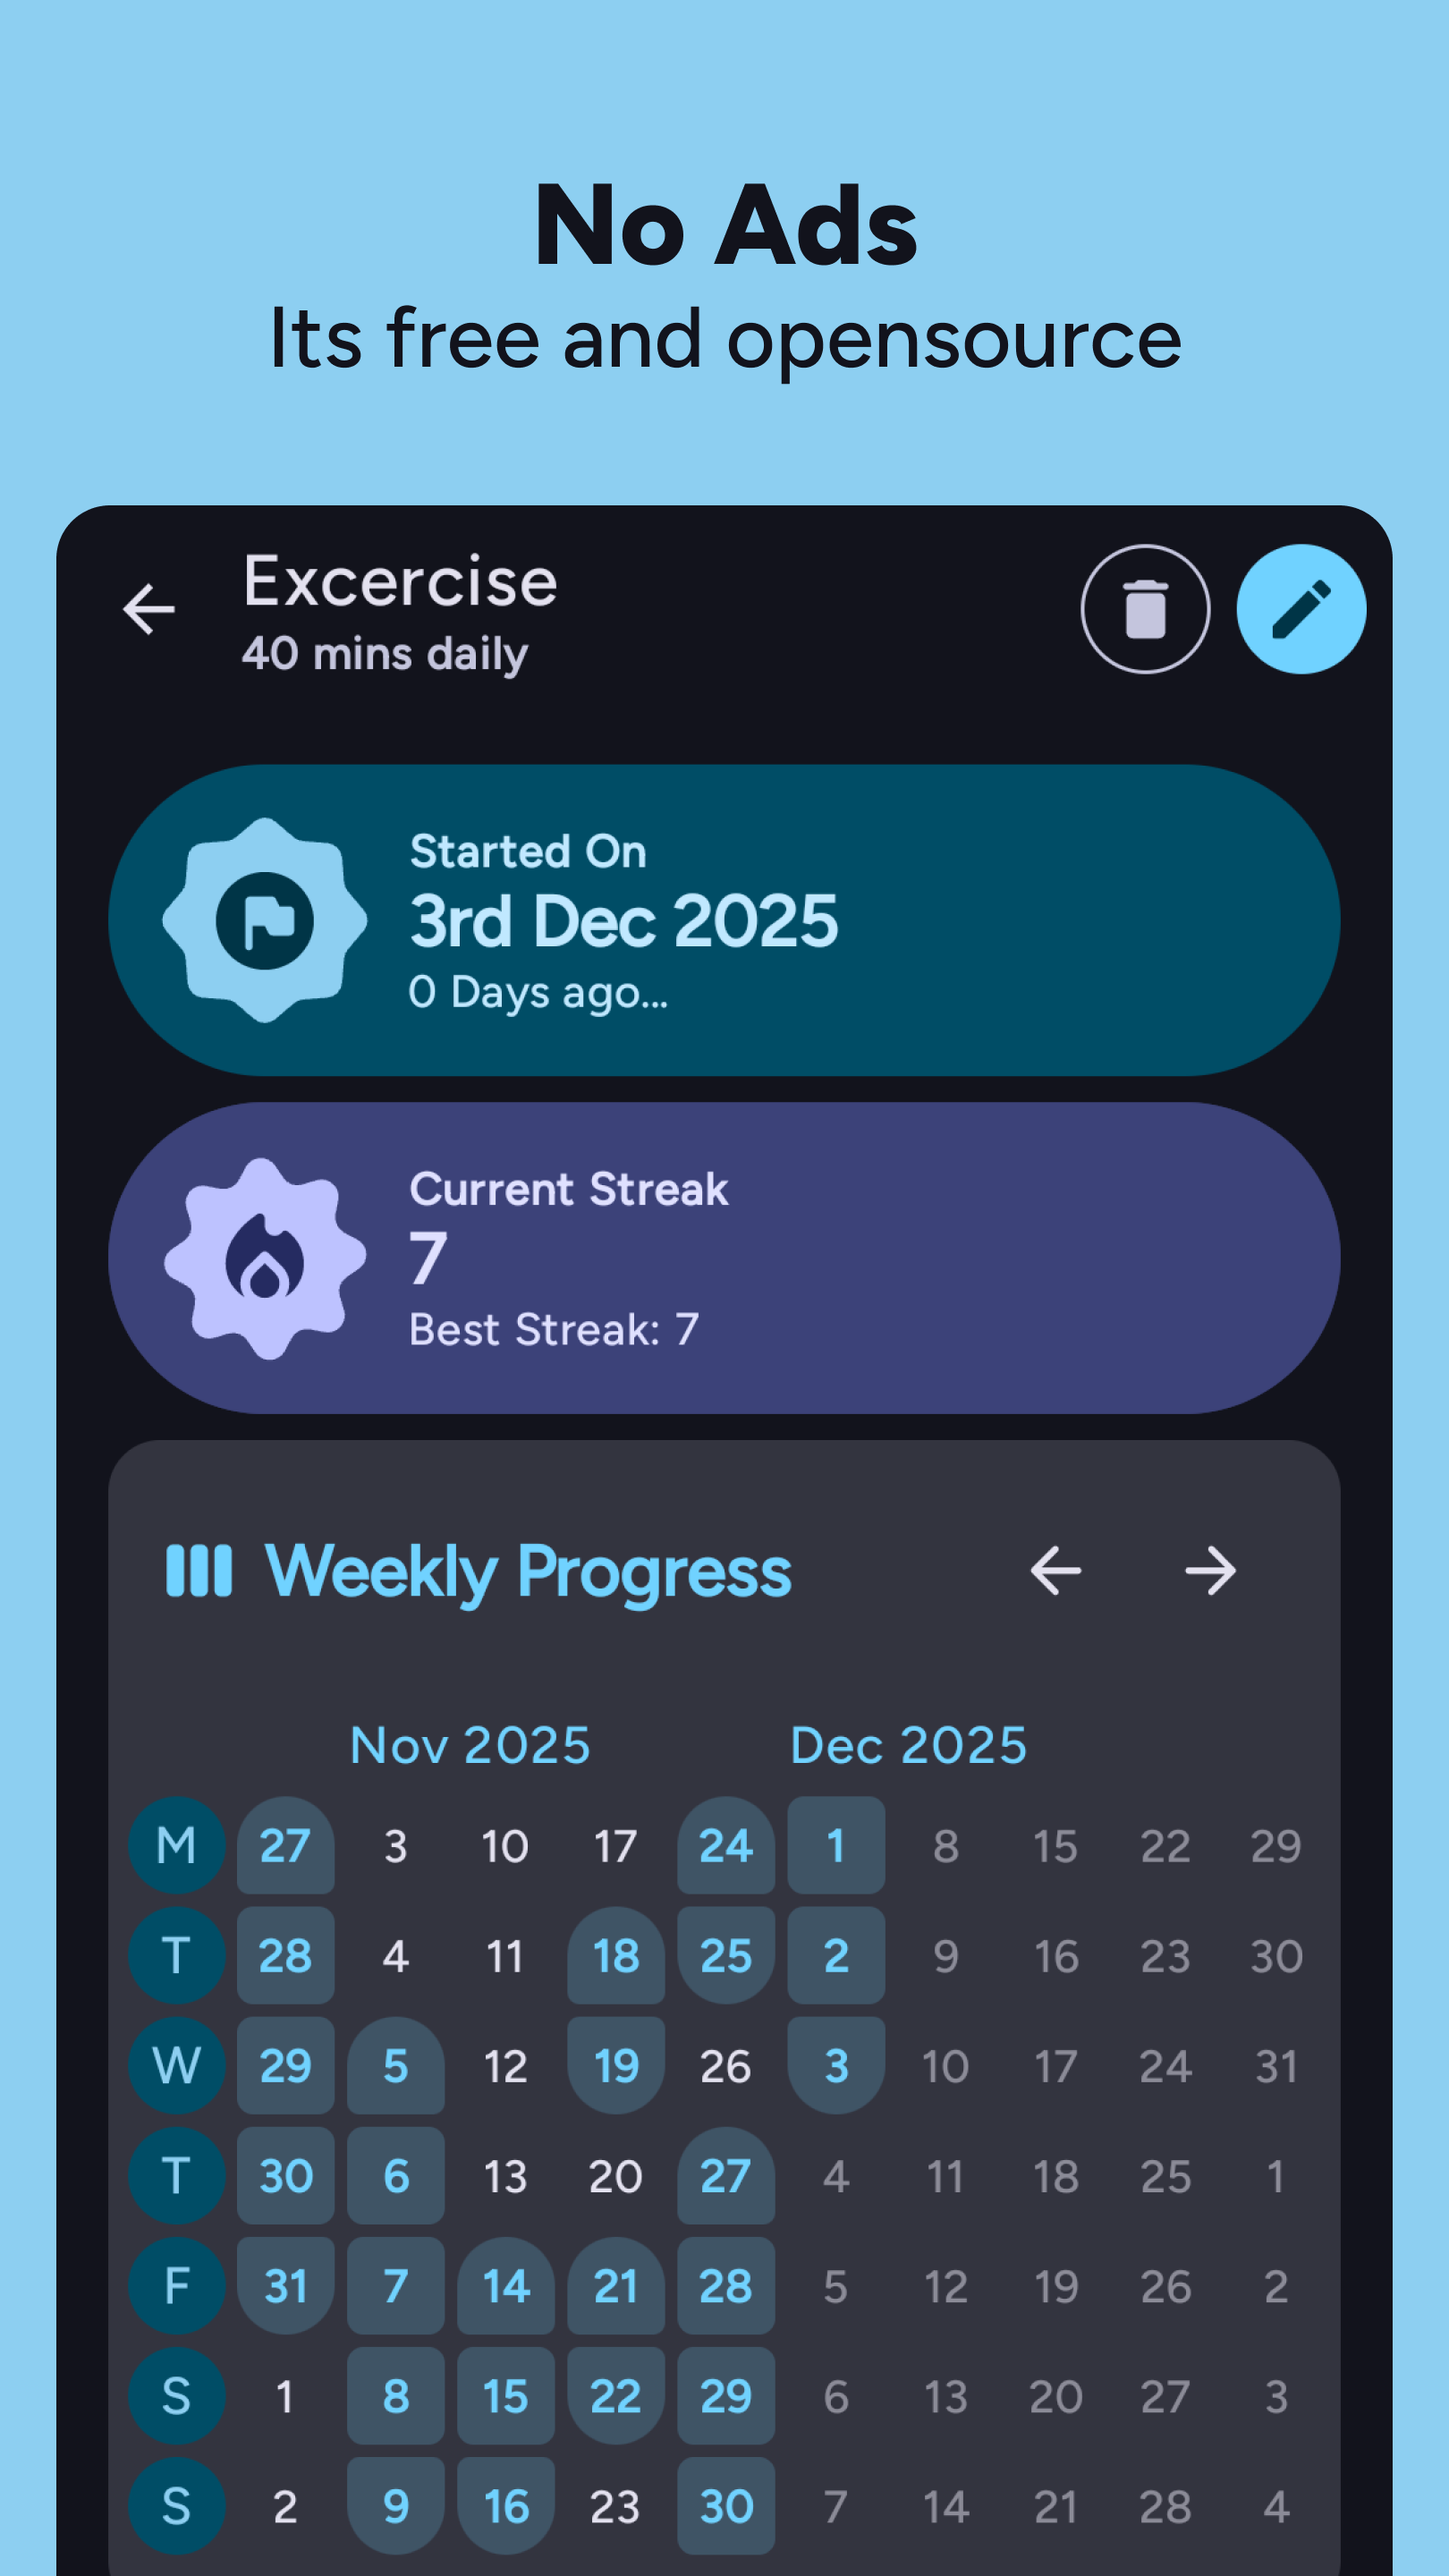
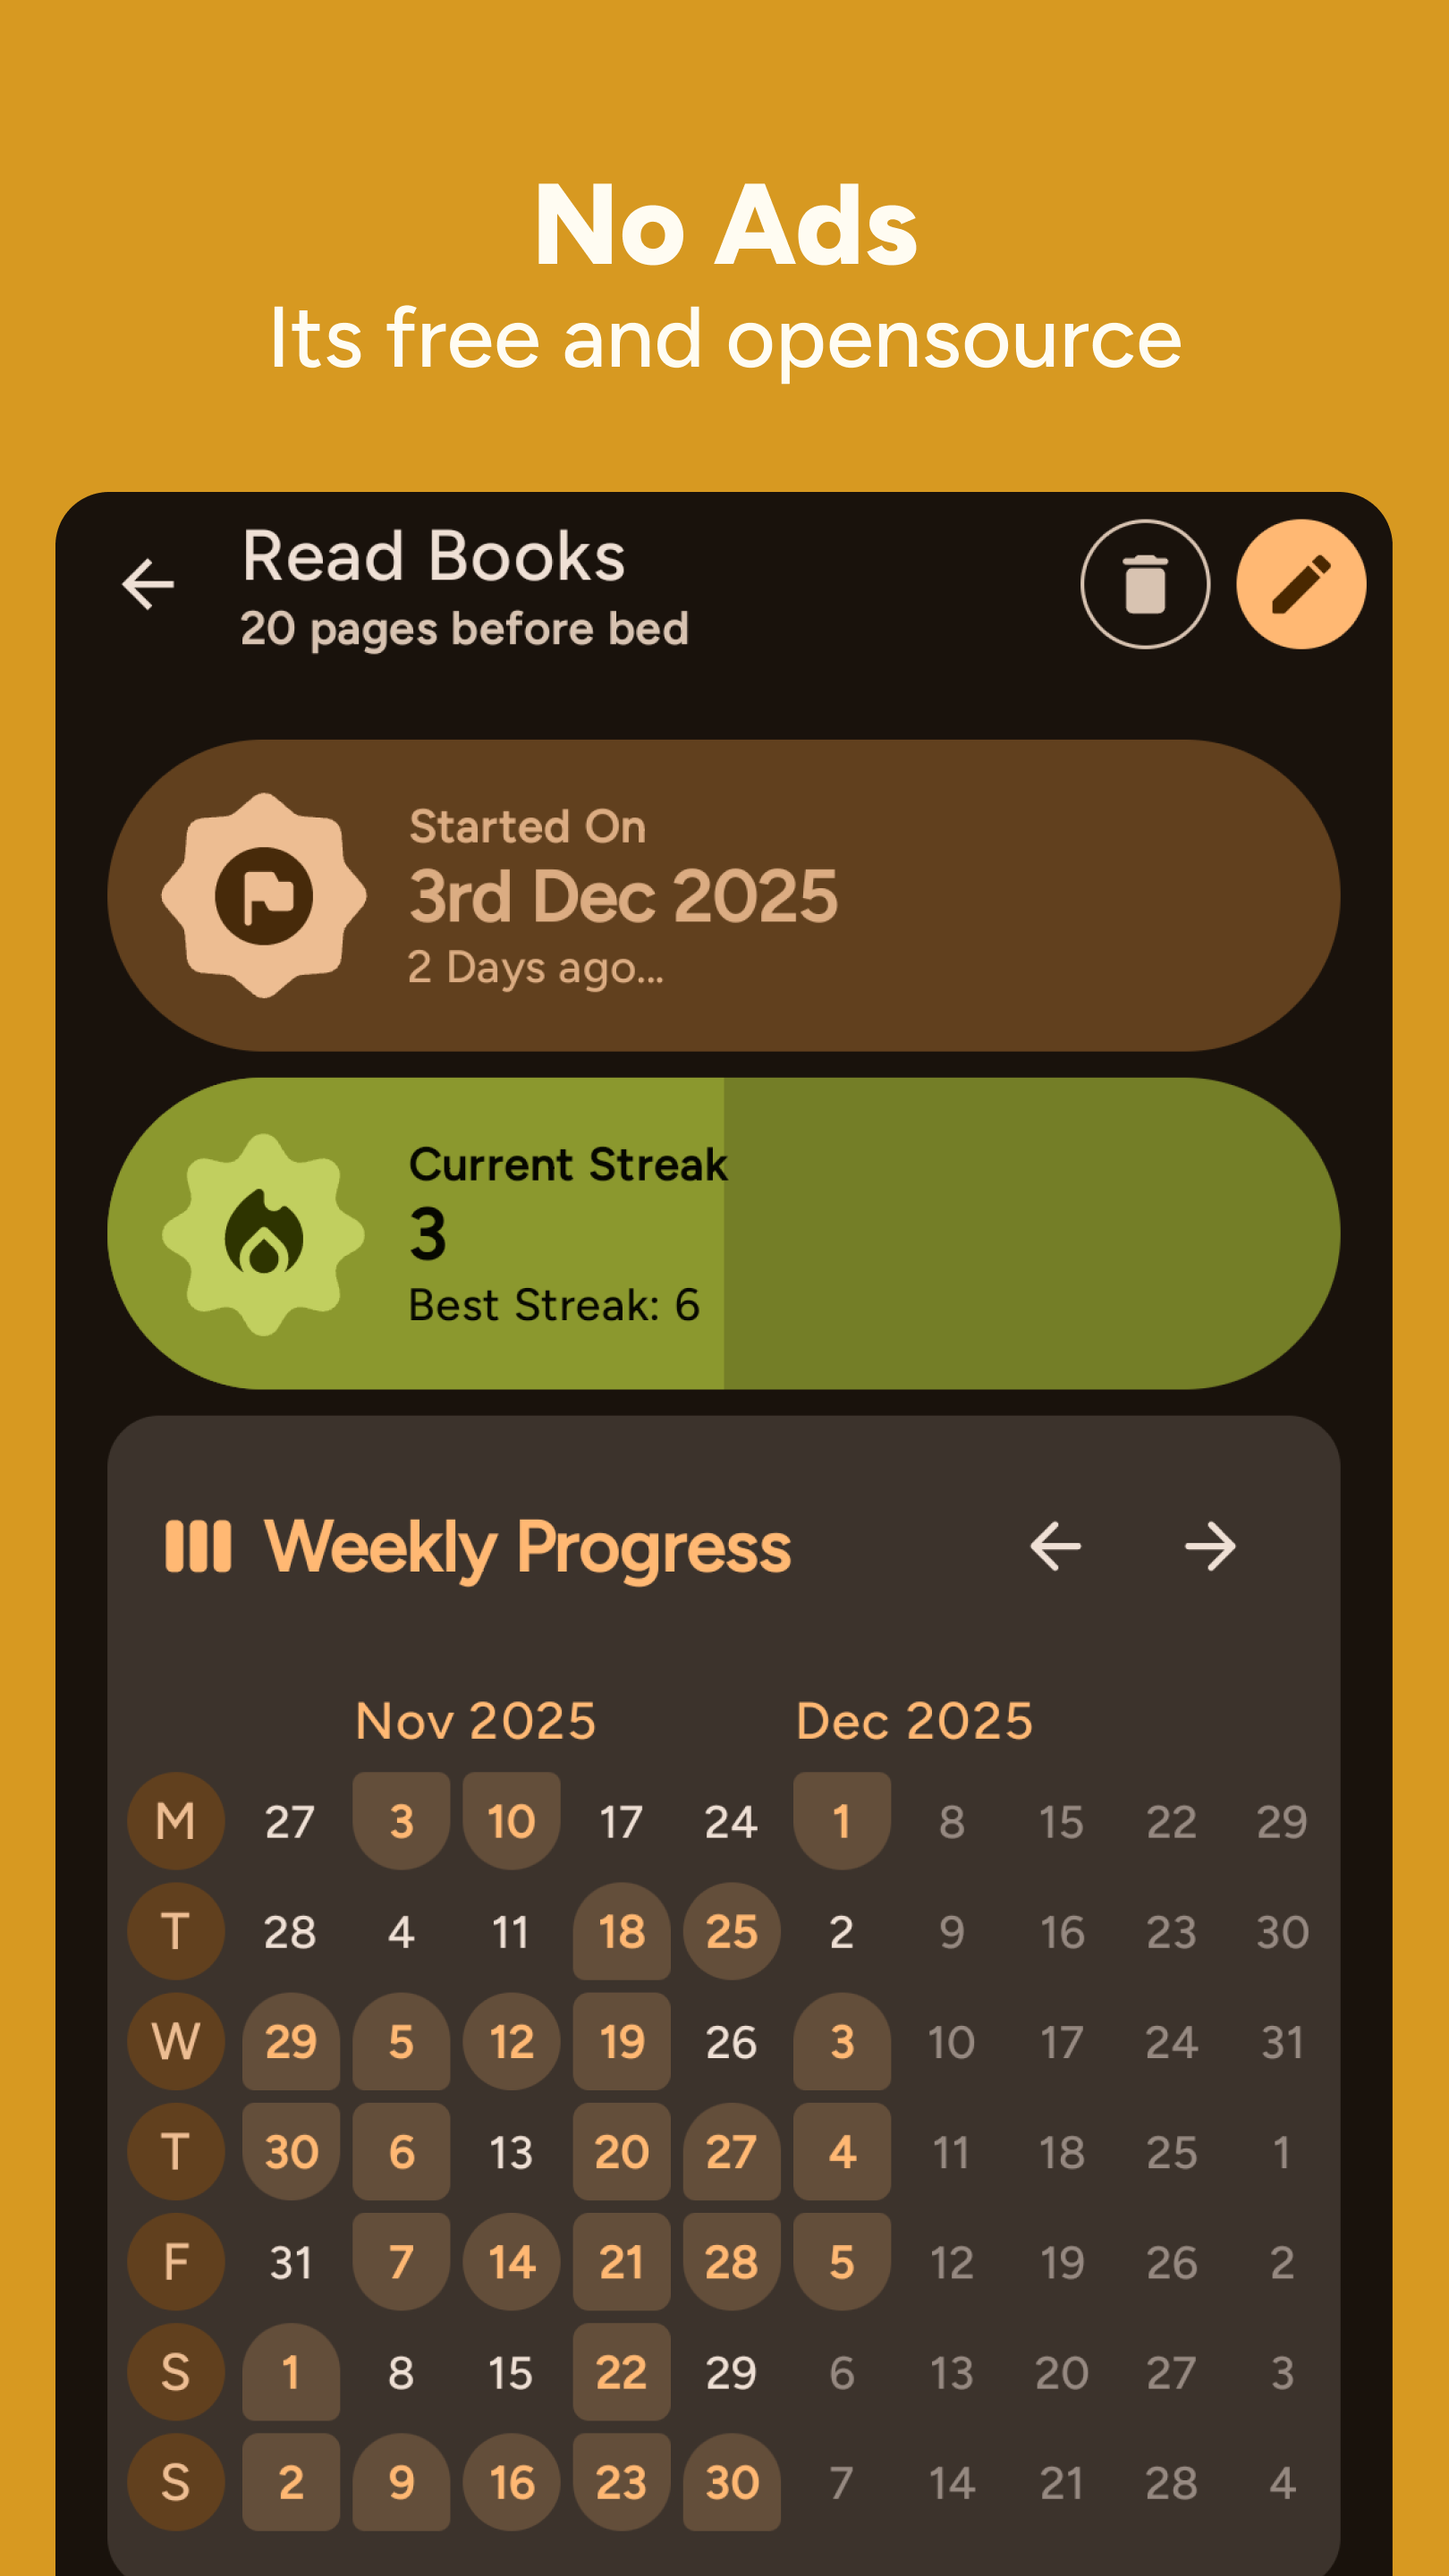
[release] :wrench: updated metadata and UI fixes #186

diff --git a/shared/core/src/commonMain/kotlin/com/shub39/grit/core/habits/presentation/ui/component/HabitHeatMap.kt b/shared/core/src/commonMain/kotlin/com/shub39/grit/core/habits/presentation/ui/component/HabitHeatMap.kt
@@ -29,7 +29,10 @@ import grit.shared.core.generated.resources.Res
 import grit.shared.core.generated.resources.habit_map
 import kotlinx.coroutines.launch
 import kotlinx.datetime.LocalDate
+import kotlinx.datetime.YearMonth
+import kotlinx.datetime.format
 import kotlinx.datetime.format.FormatStringsInDatetimeFormats
+import kotlinx.datetime.format.MonthNames
 import org.jetbrains.compose.resources.stringResource
 
 @OptIn(FormatStringsInDatetimeFormats::class)
@@ -80,7 +83,11 @@ fun HabitHeatMap(
                     modifier = Modifier.padding(2.dp)
                 ) {
                     Text(
-                        text = it.yearMonth.toString(),
+                        text = it.yearMonth.format(
+                            YearMonth.Format {
+                                monthName(MonthNames.ENGLISH_ABBREVIATED)
+                            }
+                        ),
                         color = MaterialTheme.colorScheme.primary,
                         modifier = Modifier.align(Alignment.Center)
                     )

diff --git a/README.md b/README.md
@@ -1,42 +1,47 @@
 ![](fastlane/metadata/android/en-US/images/featureGraphic.png)
 
-### A simple ToDo list and Daily Habit Tracker
+[<img alt="Try web demo" src="badges/webDemo.png" width="200px">](https://shub39.github.io/Grit)
+[<img alt="Get it on Google Play" src="badges/playstore.png" width="200px">](https://play.google.com/store/apps/details?id=com.shub39.grit)
+[<img alt="Get it on github" src="badges/github.png" width="200px">](https://github.com/shub39/Grit/releases)
+[<img alt="Get it on izzyondroid" src="badges/izzyondroid.png" width="200px">](https://apt.izzysoft.de/fdroid/index/apk/com.shub39.grit)
+[<img alt="Get it on fdroid" src="badges/fdroid.png" width="200px">](https://f-droid.org/en/packages/com.shub39.grit/)
 
-> [<img src="https://ziadoua.github.io/m3-Markdown-Badges/badges/Android/android2.svg">]()
-> [<img src="https://ziadoua.github.io/m3-Markdown-Badges/badges/AndroidStudio/androidstudio3.svg">]()
-> [<img src="https://ziadoua.github.io/m3-Markdown-Badges/badges/Kotlin/kotlin1.svg">]()
-
-> ### Stats and Socials
-> [<img src="https://m3-markdown-badges.vercel.app/stars/1/3/shub39/Grit">]()
-> [<img src="https://m3-markdown-badges.vercel.app/issues/1/2/shub39/Grit">]()
-> [<img src="https://ziadoua.github.io/m3-Markdown-Badges/badges/Discord/discord2.svg">](https://discord.gg/https://discord.gg/nxA2hgtEKf)
-
-> ### Get On or [Demo](https://shub39.github.io/Grit)
-> [<img src="https://play.google.com/intl/en_us/badges/images/generic/en-play-badge.png" alt="Get it on Google Play" height="80">](https://play.google.com/store/apps/details?id=com.shub39.grit)
-
-## Screenshots 📱
+# Screenshots
 
 | ![Image 1](fastlane/metadata/android/en-US/images/phoneScreenshots/1.png) | ![Image 2](fastlane/metadata/android/en-US/images/phoneScreenshots/2.png) |
 |:-------------------------------------------------------------------------:|:-------------------------------------------------------------------------:|
 | ![Image 3](fastlane/metadata/android/en-US/images/phoneScreenshots/3.png) | ![Image 4](fastlane/metadata/android/en-US/images/phoneScreenshots/4.png) |
 | ![Image 5](fastlane/metadata/android/en-US/images/phoneScreenshots/5.png) | ![Image 6](fastlane/metadata/android/en-US/images/phoneScreenshots/6.png) |
 
-## Features ✨
->- [x] Todo List with reminders
->- [x] Daily Habit Tracking
->- [x] Analytics with Habit Maps
->- [x] Notification Reminders
->- [x] Widgets
+# Features
+
+- [x] Todo List with reminders
+- [x] Daily Habit Tracking
+- [x] Analytics with Habit Maps
+- [x] Notification Reminders
+- [x] Widgets
 
 Check out planned changes in [RoadMap](https://github.com/shub39/Grit/discussions/66)
 
-## Motivation 💭
+# Motivation 
+
 There are plenty of todo list and habit tracker apps for android. Some have the features I love while some have good UI design.
 While learning android I made this app for myself that brings together all the features that I like keeping everything simple. 
 I eventually want to turn this app into a productivity hub with many social features like progress sharing in the form of beautiful cards.
 
-## References and Inspiration 💡
->- [Loop Habit Tracker](https://github.com/iSoron/uhabits)
+# Stargazers over time
 
-## Stargazers over time ✨
 [![Stargazers over time](https://starchart.cc/shub39/Grit.svg?background=%23282828&axis=%23f2dfd3&line=%23ffb780)](https://starchart.cc/shub39/Grit)
+
+# Inspiration and Tech used
+
+- [Loop Habit Tracker](https://github.com/iSoron/uhabits)
+- Kotlin and Jetpack Compose 🖤
+- Compose Multiplatform and Kotlin wasm for the Web Demo
+- [Compose Charts](https://github.com/ehsannarmani/ComposeCharts)
+- [Compose Reorderable](https://github.com/Calvin-LL/Reorderable)
+- [MaterialKolor](https://github.com/jordond/MaterialKolor)
+- [ColorPicker Compose](https://github.com/skydoves/colorpicker-compose)
+- [Compose Icons](https://github.com/DevSrSouza/compose-icons)
+- [Compose Calendar](https://github.com/boguszpawlowski/ComposeCalendar)
+- [Revenuecat Android SDK](https://github.com/RevenueCat/purchases-android)

diff --git a/CHANGELOG.md b/CHANGELOG.md
@@ -1,5 +1,9 @@
 # Changelog
 
+## 5.5.1
+- Replaced habit heatmap month text to abbreviated month
+- updated metadata
+
 ## 5.5.0
 - Made UI adaptive to larger screen sizes
 - Added grit server to manage tasks and habits on desktop in sync with app
